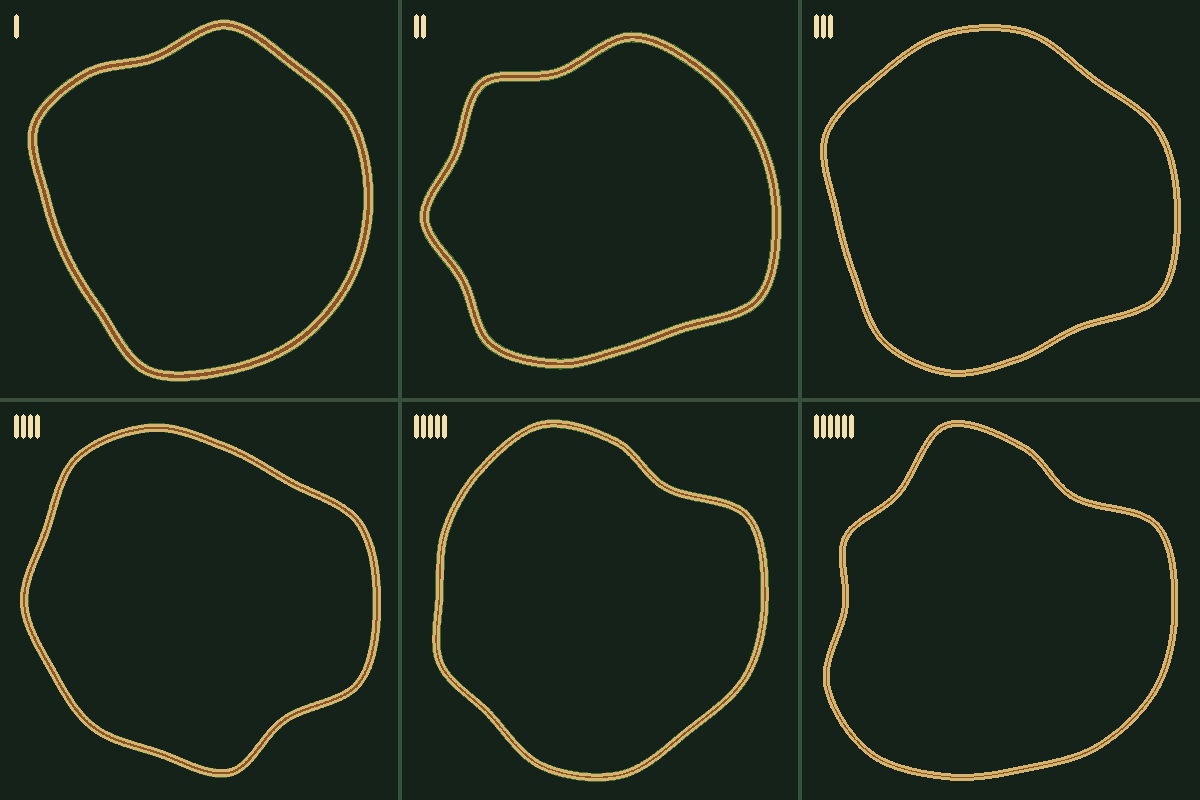
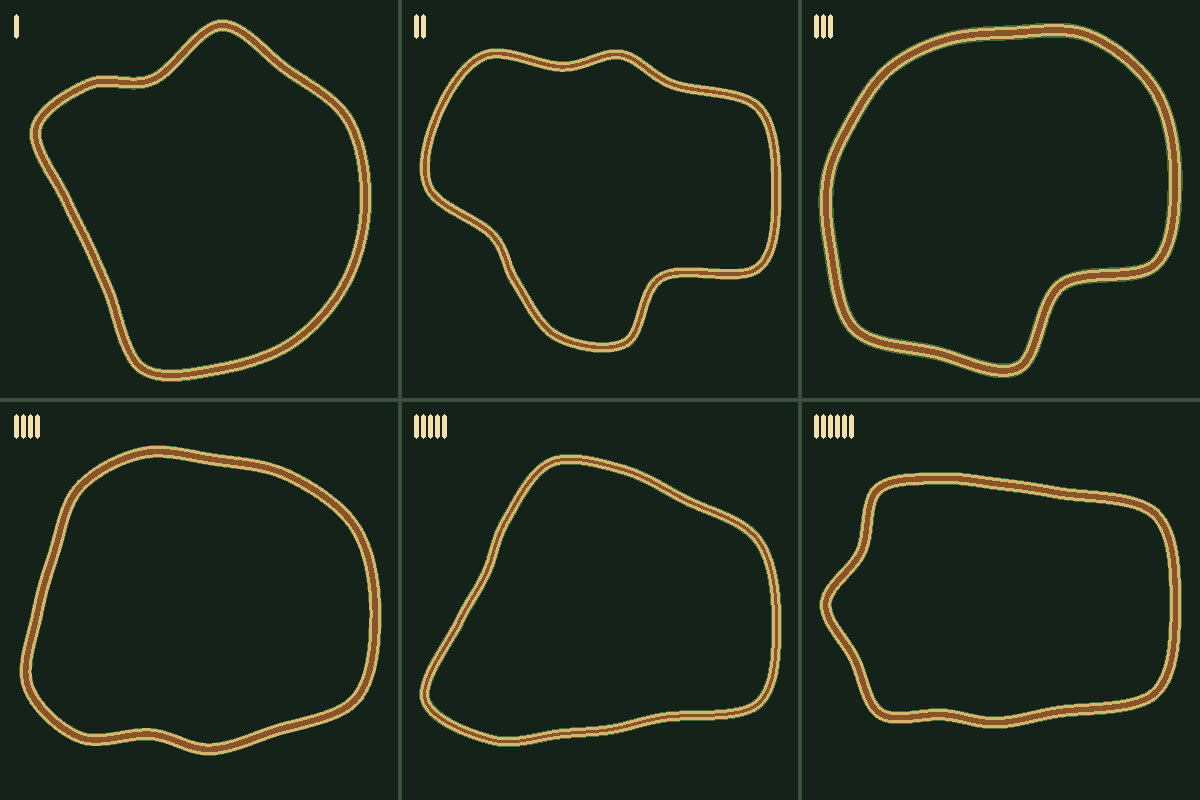
docs: document the open surface and regenerate track evidence

diff --git a/docs/open-surface.md b/docs/open-surface.md
@@ -1,0 +1,74 @@
+# The open surface
+
+The circuit has no walls. This document describes what actually stops the car, what it costs to leave the dirt, why checkpoint gates still punish straying, and the opt-in automatic reset that can bring a lost car back.
+
+## No walls, one distant boundary
+
+`TrackRuntime._build_collision()` builds exactly one `StaticBody2D`, named `PlayAreaBounds`, made of four `SegmentShape2D` edges around a single rectangle: `TrackDefinition.play_area`. That rectangle is not the track's road edges — it is `TrackGenerator`'s combined bounds of the track's own left/right boundary polylines (`definition.bounds`), grown outward by a fixed margin:
+
+```
+PLAY_AREA_MARGIN := 2000.0  # px = 160 m at 12.5 px/m
+definition.play_area = definition.bounds.grow(PLAY_AREA_MARGIN)
+```
+
+That is the only collision geometry the car can hit. The gold `LeftEdge`/`RightEdge` `Line2D` nodes drawn along the road's boundary polylines, and the grass-shoulder/dirt `Line2D` ribbons under them, are purely visual — none of them carries a `CollisionShape2D`. A car can drive straight through the painted edge line and keep going; nothing physical happens until it reaches the far rectangle, roughly a track-width's worth of circuit plus 160 m of open ground away in every direction. The code comment on `_build_collision()` puts it at "roughly 1.5 viewport widths" of recovery room before the car meets anything solid.
+
+This also means the collision cost dropped sharply from the fenced version: four segments per track instead of one `SegmentShape2D` per centerline sample on both boundaries (previously on the order of 2,500).
+
+## The off-track penalty is two layers stacked
+
+Leaving the dirt costs the car in two independent places, and the two multiply together.
+
+**`TrackSurfaceMap`** (`track/track_surface_map.gd`) classifies a world position as `DIRT` (within half the track width of the centerline) or `OFF_TRACK`, and returns a grip/drag multiplier pair for each:
+
+| Surface | Grip multiplier | Drag multiplier |
+| --- | --- | --- |
+| `DIRT` | 1.0 | 1.0 |
+| `OFF_TRACK` | 0.55 (`GRASS_GRIP`) | 2.2 (`GRASS_DRAG`) |
+
+**`VehicleTuning`** (`vehicle/vehicle_tuning.gd`) applies its own multipliers on top, keyed by the same surface type, in `TopDownCar._sample_surface()`:
+
+| Tuning field | `DIRT` value | `OFF_TRACK` value |
+| --- | --- | --- |
+| grip multiplier | `dirt_grip_multiplier` = 0.92 | `off_track_grip_multiplier` = 0.46 |
+| drag multiplier | `dirt_drag_multiplier` = 1.0 | `off_track_drag_multiplier` = 2.6 |
+
+The two layers multiply: `_surface_grip = sample.grip_multiplier * tuning_grip`, `_surface_drag = sample.drag_multiplier * tuning_drag`. Off the track that works out to:
+
+- effective grip: `0.55 * 0.46 = 0.253` — roughly a quarter of on-track cornering grip
+- effective drag: `2.2 * 2.6 = 5.72` — nearly six times on-track rolling/aerodynamic drag
+
+On top of that, `VehicleTuning.off_track_engine_multiplier` (0.62) cuts engine (and reverse) force directly whenever the car is `OFF_TRACK`; this multiplier is tuning-only and does not come from the surface map, since `SurfaceSample` carries only grip and drag. So an off-track car corners on about a quarter of its normal grip, drags nearly six times as hard, and pulls with 62% of normal engine force — a car that strays off the dirt slows down fast and turns poorly while it does it.
+
+These constants (`GRASS_GRIP`, `GRASS_DRAG`, and the three `off_track_*` tuning fields) were authored back when the track was fenced and off-track terrain was unreachable. Now that the surface is genuinely drivable, expect them to be revisited in a tuning pass once someone has actually driven it — that pass is out of scope here.
+
+## Checkpoint gates stay strict — straying costs the lap
+
+Nothing about lap validity got more forgiving. A checkpoint only counts as crossed within half the track width of the gate's own centre:
+
+```gdscript
+# session/checkpoint_crossing_detector.gd
+if absf((crossing_point - checkpoint.origin).dot(lateral)) > _definition.track_width * 0.5:
+    continue
+```
+
+With the widened 200–280 px track (16–22.4 m), that is a gate 100–140 px (8–11.2 m) wide either side of centre — generous relative to the car, but finite. And `LapProgressTracker.cross_checkpoint()` still requires checkpoints in strict order (`checkpoint_index == next_checkpoint`) in the forward direction (`forward_dot > 0.0`); a checkpoint crossed out of order, backward, or outside its lateral gate is simply ignored, not queued.
+
+Put together: because there is no wall forcing the car back onto the road, a driver can cut wide through open ground around a corner. But if that cut carries them laterally more than half a track width past the next gate's centreline, the crossing never registers, and the car has to come back through the gate properly to keep the lap alive. The open surface is deliberately risk/reward — the space to cut is real, but the ordered, width-limited gates are what make cutting a gamble rather than a shortcut.
+
+## Automatic reset: opt-in, off by default
+
+`SessionSettings.auto_reset_enabled` defaults to `false`. `MainSession.restart_with_seed()` passes it straight to `TopDownCar.set_auto_reset_enabled()` on every restart, so it has to be explicitly turned on (there is no in-game toggle at time of writing; it is a resource-level setting).
+
+When enabled, `TopDownCar._update_auto_reset()` evaluates two independent conditions, checked only while the car is `OFF_TRACK`; either is sufficient to trigger a reset:
+
+| Condition | Threshold (`VehicleTuning` field) | Default value |
+| --- | --- | --- |
+| Stopped off-track | `auto_reset_stuck_speed` / `auto_reset_stuck_seconds` | speed below 25.0 px/s (2.0 m/s, 7.2 km/h) continuously for 2.0 s |
+| Lost off-track | `auto_reset_lost_distance` | more than 1000.0 px (80 m) from the centerline |
+
+The lost-distance threshold (80 m) is deliberately half of `PLAY_AREA_MARGIN` (160 m), so a "lost" reset resolves well before the car could ever reach the containment boundary. Returning to `DIRT` clears both timers immediately.
+
+A reset that fires this way teleports the car to its last safe on-track pose (the same mechanism the manual reset uses) and shows the status message "Returned to the track". It also re-seeds the checkpoint detector at the landing pose so the teleport itself is never misread as a driven checkpoint crossing.
+
+The manual reset — the `reset_car` input action — is unrelated to this setting and is always available regardless of `auto_reset_enabled`, on or off the track.

diff --git a/README.md b/README.md
@@ -24,6 +24,8 @@ The project opens one full-screen gameplay canvas. Drive with a left stick and t
 
 Press **F3** or controller **Back/View** to toggle the development diagnostics overlay. It reports FPS/frame time, current and peak memory, seed, vehicle state, and normalized inputs, and is forcibly hidden in release exports. See [Controller-first time trial](docs/controller-time-trial.md) for the complete mapping and tuning contract.
 
+The track itself has no walls: the only collision is a single containment rectangle far outside the circuit, and the painted boundary line is purely decorative. Leaving the dirt is expected — it costs grip, drag, and engine force rather than blocking the car, though checkpoint gates stay strict, so straying too far past one still costs the lap. Automatic reset back to the track when stuck or lost off-track is off by default; enable it through `SessionSettings.auto_reset_enabled`. See [The open surface](docs/open-surface.md) for the full contract and the actual constants involved.
+
 ## Verification
 
 Import the project and exit after all resources are parsed:
